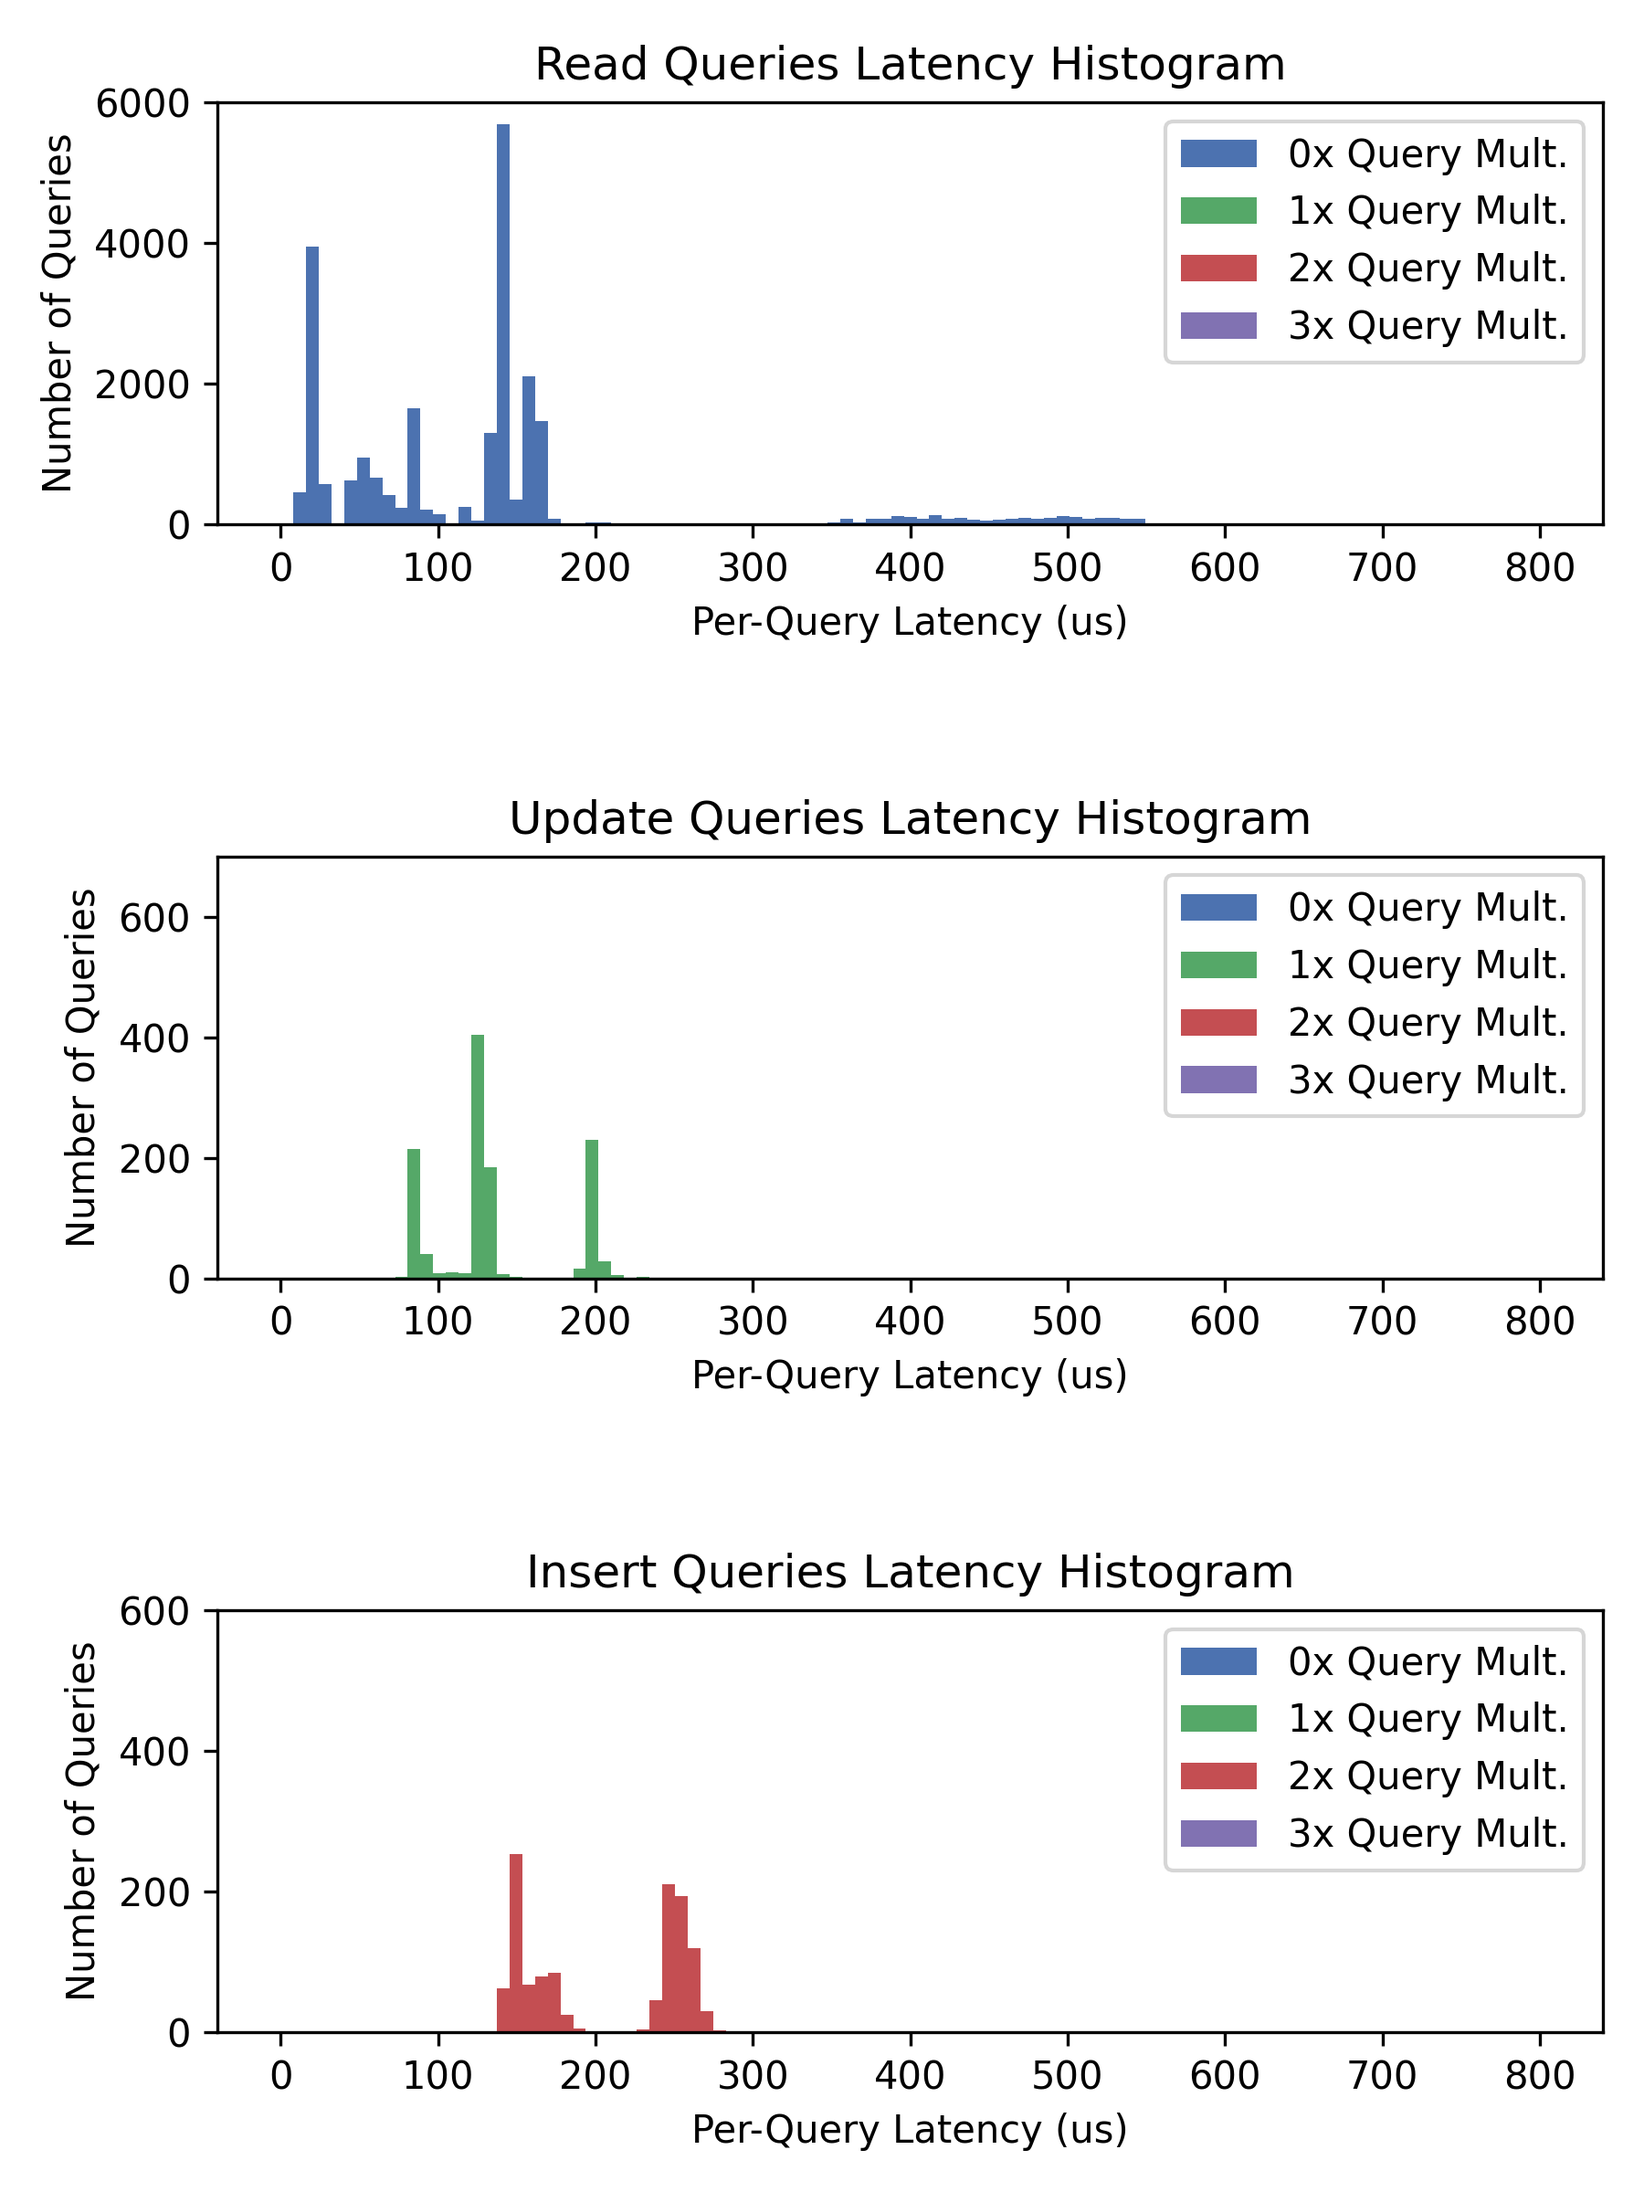
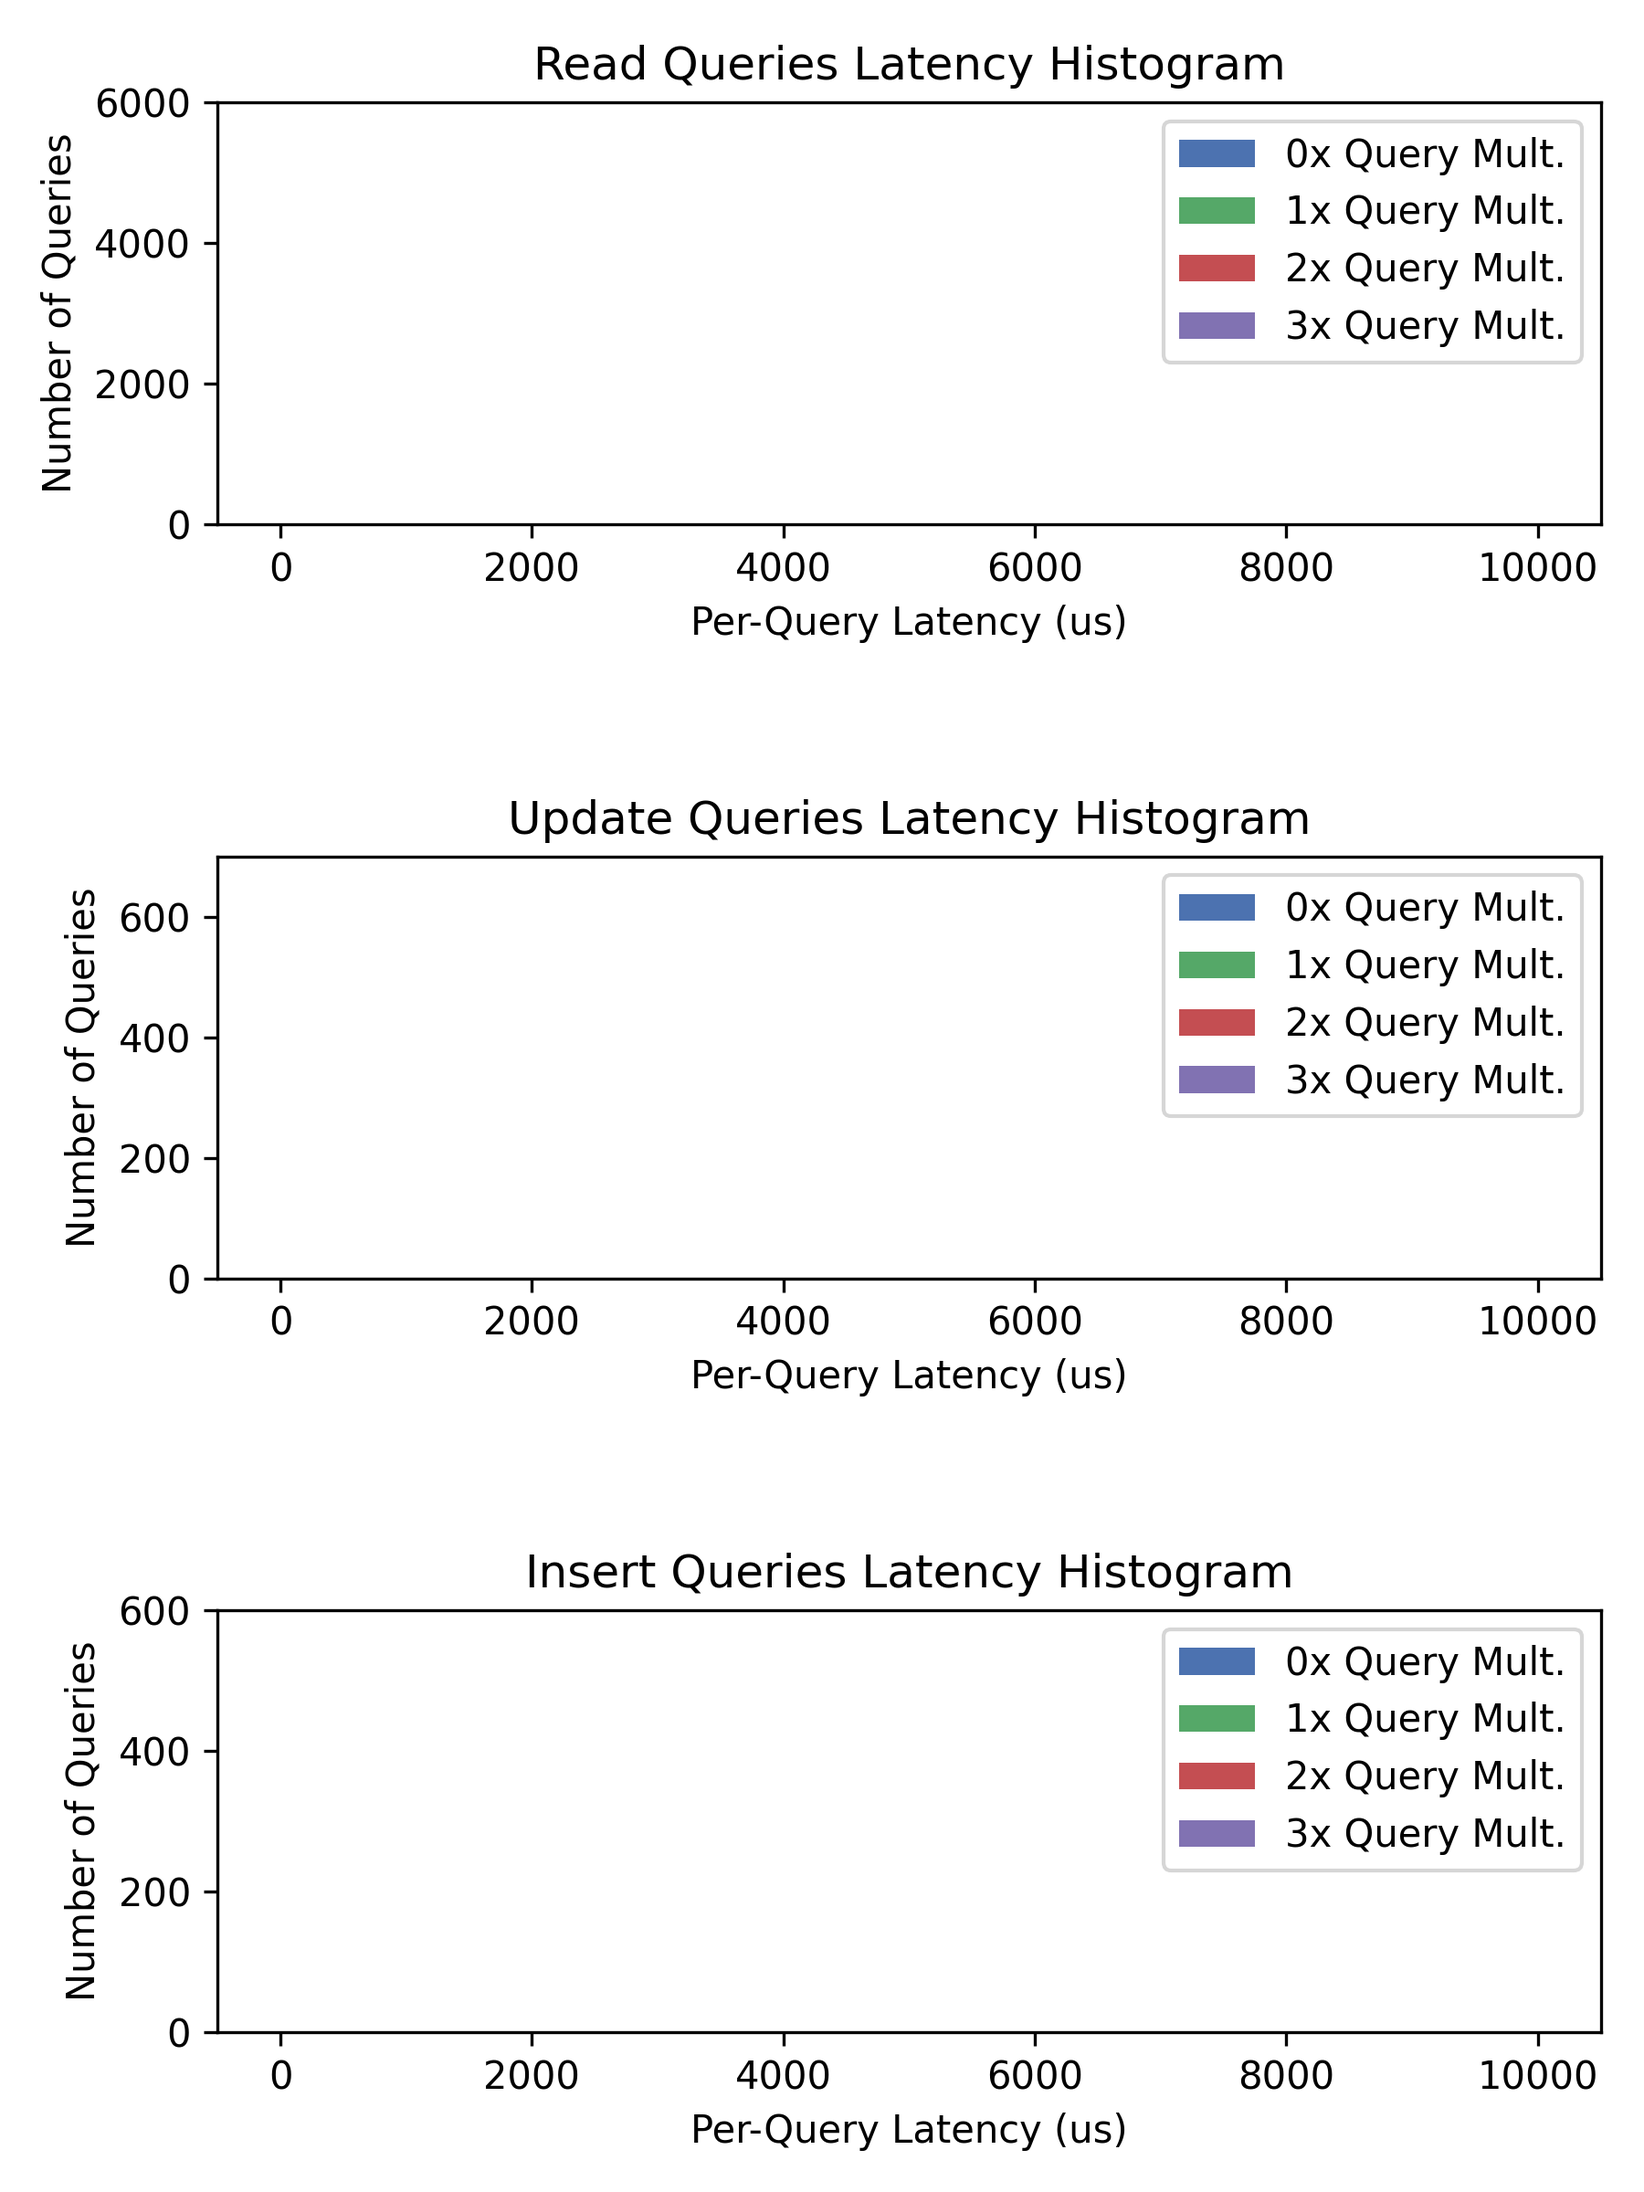
update results to see overall throughput

diff --git a/decor/src/decor-mem/src/lib.rs b/decor/src/decor-mem/src/lib.rs
@@ -200,10 +200,10 @@ impl<W: io::Write> MysqlShim<W> for Shim {
         }
         let dur = start.elapsed();
         let qtype = stats::get_qtype(query)?;
-        if dur.as_micros() > 1000 {
+        /*if dur.as_micros() > 1000 {
             error!("Long query: {}: {}us", query, dur.as_micros());
         }
-        self.qtrans.record_query_stats(qtype, dur);
+        self.qtrans.record_query_stats(qtype, dur);*/
         res
     }
 }

diff --git a/decor/applications/lobsters/microbenchmarks/queriers/expensive_queries.rs b/decor/applications/lobsters/microbenchmarks/queriers/expensive_queries.rs
@@ -13,6 +13,7 @@ pub fn post_comment(db: &mut mysql::Conn,
     ) -> Result<(), mysql::Error> 
 {
     let user = acting_as.unwrap();
+    db.query_drop("SELECT `users`.* FROM `users` WHERE `users`.`id` IN (6,7,8,4,1,0,9,5,2,3)");
     /*let (author, hotness, story) : (u64, f64, u64) = db.query_first(format!(
             "SELECT `stories`.`user_id`, `stories`.`hotness`, stories.id \
              FROM `stories` \

diff --git a/decor/benchmarks/plot.py b/decor/benchmarks/plot.py
@@ -7,7 +7,7 @@ plt.style.use('seaborn-deep')
 tests = ["decor", "shim_only", "shim_parse"]
 names = ["Read", "Update", "Insert", "Other"]
 ybounds = [6000, 700, 600, 600]
-bins = np.linspace(0, 800, 100)
+bins = np.linspace(0, 10000, 100)
 
 for test in tests:
     with open('{}1.csv'.format(test),'r') as csvfile:
